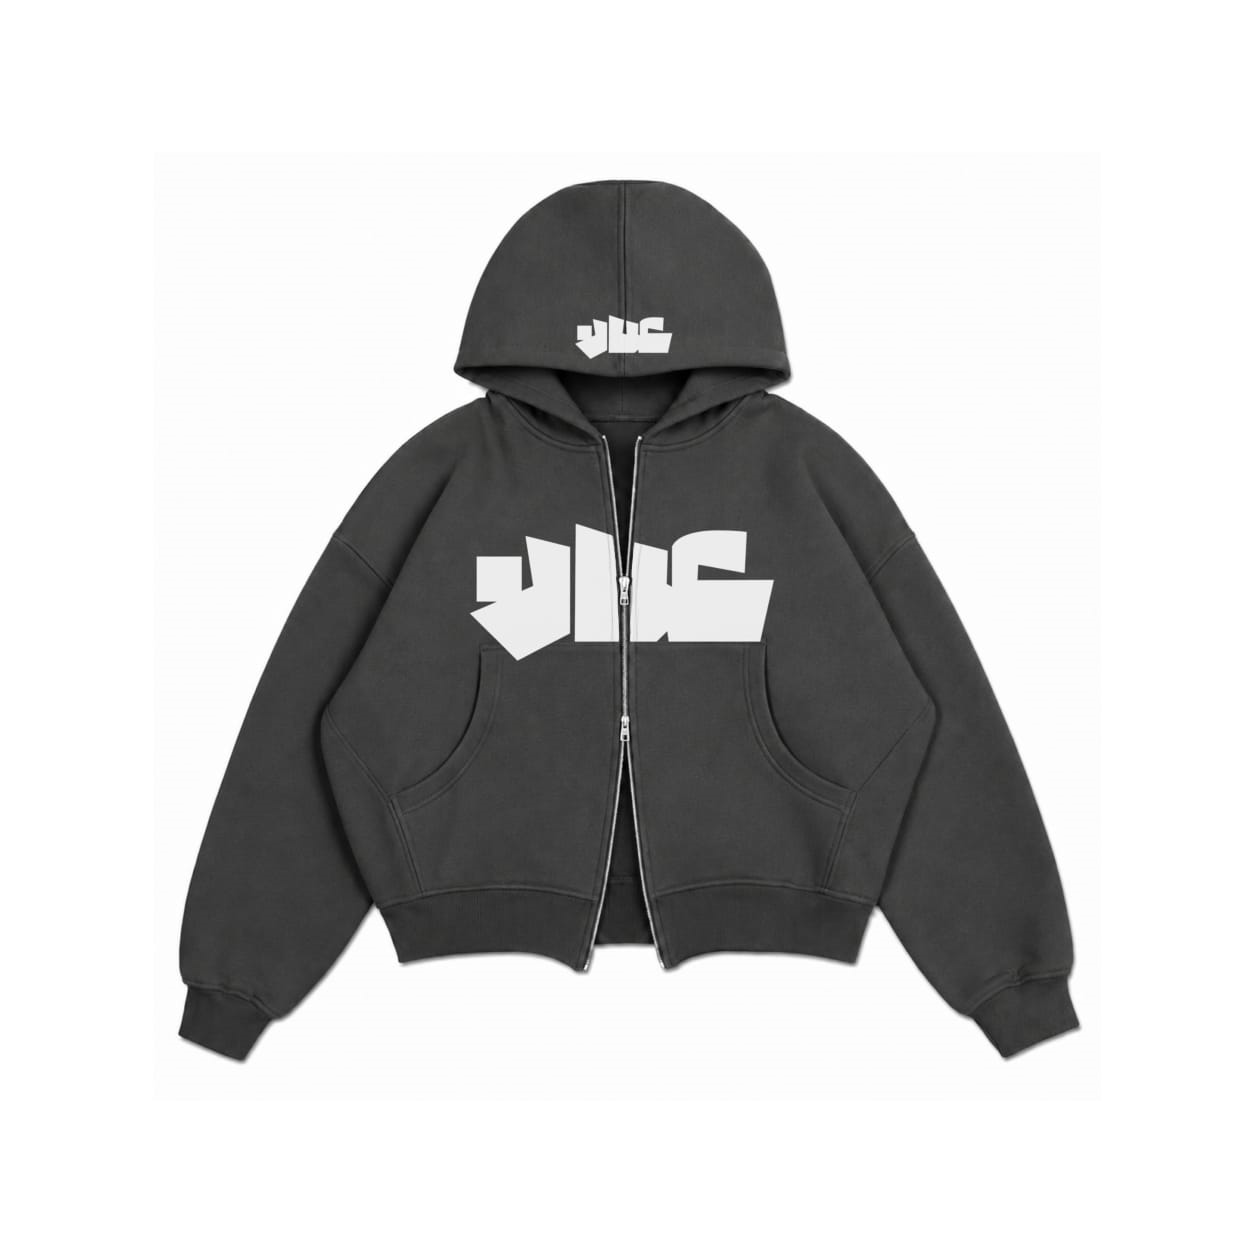
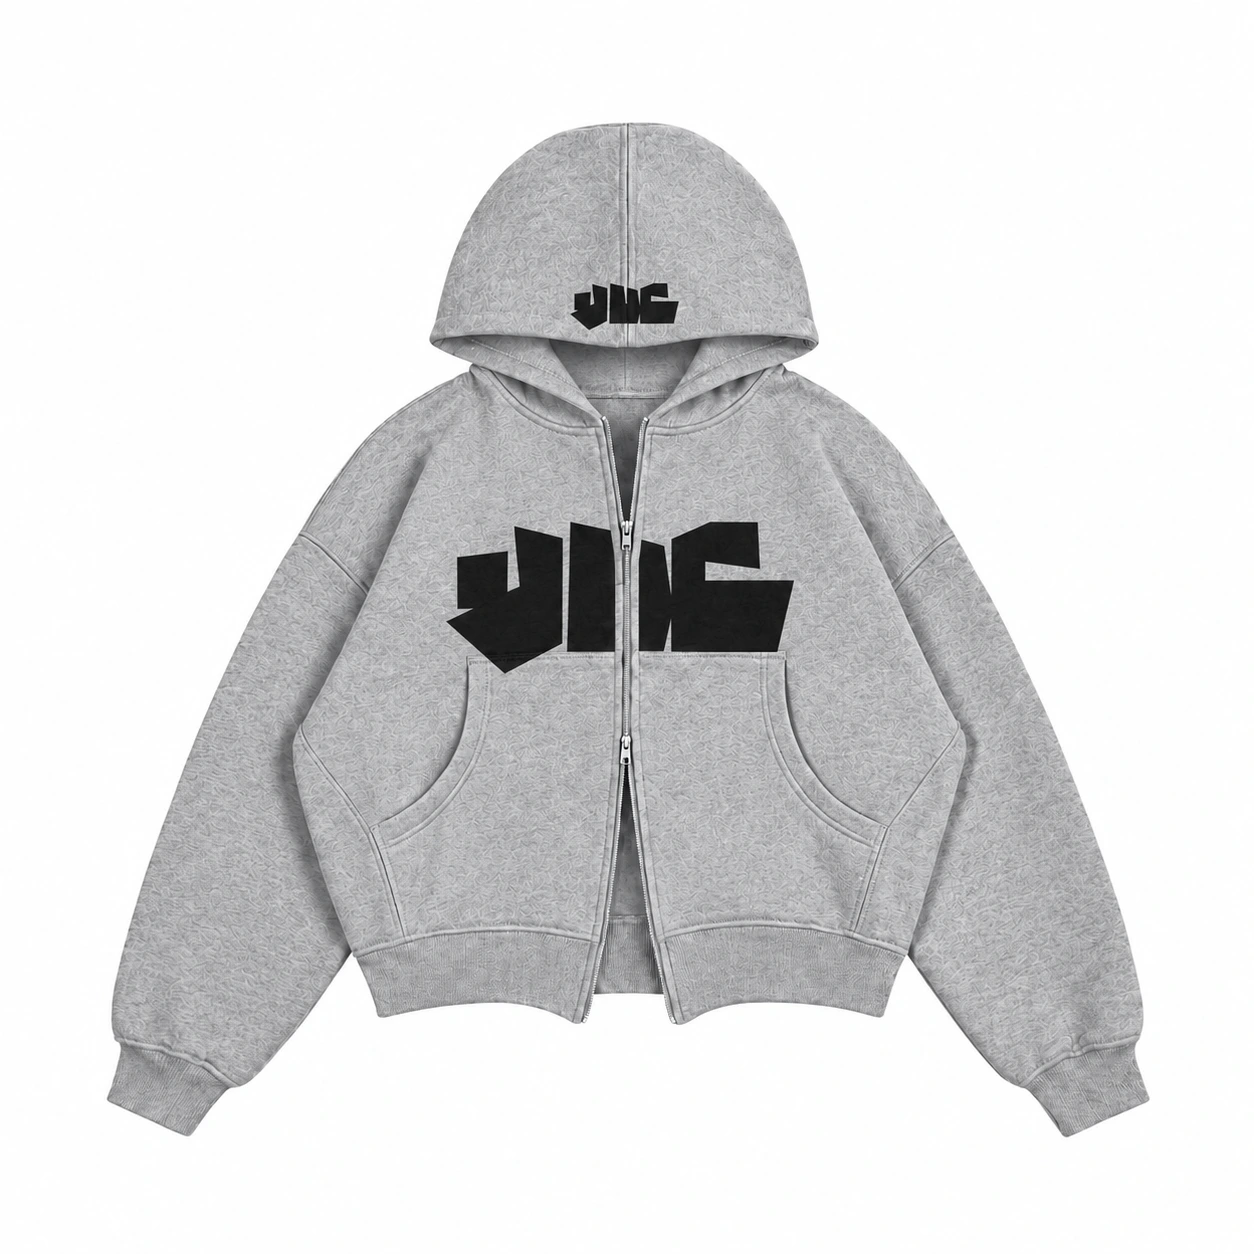
update catalog produk: ShortSleeve North Default, Gray hoodie, NRTHNL archive, ids 1-14 + bump sw cache v4.2.0

diff --git a/backend/routes/catalog.js b/backend/routes/catalog.js
@@ -11,25 +11,25 @@ const SIZE_EXTRA = { S: 0, M: 500, L: 1000, XL: 1500, XXL: 2000 };
 const NORTHLINE_CATALOG = [
   {
     id: 1,
-    name: "Northline - LongSleeve Boxy Style North Default  - 24s Cotton Combed Black Statemant",
+    name: "Northline - ShortSleeve Boxy Style North Default  - 24s Cotton Combed Black Statemant",
     priceLong: 127000,
     price: 127000,
     oldPrice: 250000,
     avgRating: 4.4,
     totalReviews: 7102,
     images: [
-      "https://nl.hostinesia.my.id/public/image/NorthlineArticles/NorthlineLongSleeveBoxyStyle_NorthDefault_BlackStatement.webp",
+      "https://nl.hostinesia.my.id/public/image/NorthlineArticles/NorthlineShortSleeveBoxyStyle_NorthDefault_BlackStatement.webp",
       "https://nl.hostinesia.my.id/public/image/SizeChart/SizeChartNorthlineLongsleeve.webp",
     ],
     colors: ["Black"],
     sizes: ["M", "L", "XL"],
     stock: 20,
     deskripsi:
-      "Northline - LongSleeve Boxy Style North Default  - 24s Cotton Combed Black Statemant.\n\n        Archive Article dari Northline dengan desain Black Statement yang menghadirkan karakter minimalis dan modern. \n        Menggunakan potongan boxy fit dengan siluet relaxed sehingga memberikan tampilan casual dan contemporary.\n\n        Detail Produk:\n\n        Brand: Northline\n        Model: LongSleeve Boxy T-Shirt\n        Article: Archive Article\n        Warna: Black\n        Fit: Boxy / Relaxed Fit\n        Lengan: Panjang\n        Material: Cotton\n        Cocok untuk penggunaan sehari-hari\n        Unisex\n\n        Catatan:\n        Mohon perhatikan panduan ukuran sebelum melakukan pemesanan. \n        Warna produk dapat terlihat sedikit berbeda tergantung pencahayaan dan layar perangkat.\n\n        #Northline #ArchiveArticle #BoxyTshirt #BlackStatement #BoxyFit #CasualWear",  
+      "Northline - ShortSleeve Boxy Style North Default  - 24s Cotton Combed Black Statemant.\n\n        Archive Article dari Northline dengan desain Black Statement yang menghadirkan karakter minimalis dan modern. \n        Menggunakan potongan boxy fit dengan siluet relaxed sehingga memberikan tampilan casual dan contemporary.\n\n        Detail Produk:\n\n        Brand: Northline\n        Model: ShortSleeve Boxy T-Shirt\n        Article: Archive Article\n        Warna: Black\n        Fit: Boxy / Relaxed Fit\n        Lengan: Pendek\n        Material: Cotton\n        Cocok untuk penggunaan sehari-hari\n        Unisex\n\n        Catatan:\n        Mohon perhatikan panduan ukuran sebelum melakukan pemesanan. \n        Warna produk dapat terlihat sedikit berbeda tergantung pencahayaan dan layar perangkat.\n\n        #Northline #ArchiveArticle #BoxyTshirt #BlackStatement #BoxyFit #CasualWear",  
   },
   {
     id: 2,
-    name: "Northline - Hoodie Boxy Zipper Style North Default  - 24s Cotton Combed Black Statemant",
+    name: "Northline - Hoodie Boxy Zipper Style North Default  - 24s Cotton Combed Gray Statemant",
     price: 217000,
     oldPrice: 250000,
     avgRating: 4.8,
@@ -38,11 +38,11 @@ const NORTHLINE_CATALOG = [
       "https://nl.hostinesia.my.id/public/image/NorthlineArticles/NorthlineHoodieBoxyStyle_nrt_BlackDefaultStatement.webp",
       "https://nl.hostinesia.my.id/public/image/SizeChart/SizeChartNorthlineHoodieBoxy.webp",
     ],
-    colors: ["Black"],
+    colors: ["Gray"],
     sizes: ["M", "L", "XL", "XXL"],
     stock: 20,
     deskripsi:
-      "Northline - Hoodie Boxy Zipper Style North Default  - 24s Cotton Combed Black Statemant.\n\n        Archive Article dari Northline dengan desain Black Statement yang menghadirkan karakter minimalis dan modern. \n        Menggunakan potongan boxy fit dengan siluet relaxed sehingga memberikan tampilan casual dan contemporary.\n\n        Detail Produk:\n\n        Brand: Northline\n        Model: Hoodie Boxy Zipper\n        Article: Archive Article\n        Warna: Black\n        Fit: Boxy / Relaxed Fit\n        Lengan: Panjang\n        Material: Cotton\n        Cocok untuk penggunaan sehari-hari\n        Unisex\n\n        Catatan:\n        Mohon perhatikan panduan ukuran sebelum melakukan pemesanan. \n        Warna produk dapat terlihat sedikit berbeda tergantung pencahayaan dan layar perangkat.\n\n        #Northline #ArchiveArticle #BoxyTshirt #BlackStatement #BoxyFit #CasualWear",  
+      "Northline - Hoodie Boxy Zipper Style North Default  - 24s Cotton Combed Gray Statemant.\n\n        Archive Article dari Northline dengan desain Black Statement yang menghadirkan karakter minimalis dan modern. \n        Menggunakan potongan boxy fit dengan siluet relaxed sehingga memberikan tampilan casual dan contemporary.\n\n        Detail Produk:\n\n        Brand: Northline\n        Model: Hoodie Boxy Zipper\n        Article: Archive Article\n        Warna: Gray\n        Fit: Boxy / Relaxed Fit\n        Lengan: Panjang\n        Material: Cotton\n        Cocok untuk penggunaan sehari-hari\n        Unisex\n\n        Catatan:\n        Mohon perhatikan panduan ukuran sebelum melakukan pemesanan. \n        Warna produk dapat terlihat sedikit berbeda tergantung pencahayaan dan layar perangkat.\n\n        #Northline #ArchiveArticle #BoxyTshirt #BlackStatement #BoxyFit #CasualWear",  
   },
   {
     id: 3,
@@ -102,7 +102,7 @@ const NORTHLINE_CATALOG = [
       "Northline - Sweatpants Loose Baggy Highwaist Man  - Falcee Gray Statemant.\n\n        Archive Article dari Northline dengan desain Gray Statement yang menghadirkan karakter minimalis dan modern. \n        Menggunakan potongan boxy fit dengan siluet relaxed sehingga memberikan tampilan casual dan contemporary.\n\n        Detail Produk:\n\n        Brand: Northline\n        Model: Sweatpants\n        Article: Archive Article\n        Warna: Gray\n        Tipe: High waist\n        Panjang Celana: Panjang\n        Material: Falcee\n        Cocok untuk penggunaan sehari-hari\n        Unisex\n\n        Catatan:\n        Mohon perhatikan panduan ukuran sebelum melakukan pemesanan. \n        Warna produk dapat terlihat sedikit berbeda tergantung pencahayaan dan layar perangkat.\n\n        #Northline #ArchiveArticle #BoxyTshirt #BlackStatement #BoxyFit #CasualWear",  
   },
   {
-    id: 15,
+    id: 6,
     name: "Northline - Sweatpants Loose Baggy Highwaist Womans  - Falcee Gray Statemant",
     price: 119000,
     oldPrice: 250000,
@@ -119,7 +119,7 @@ const NORTHLINE_CATALOG = [
       "Northline - Sweatpants Loose Baggy Highwaist Womans  - Falcee Gray Statemant.\n\n        Archive Article dari Northline dengan desain Gray Statement yang menghadirkan karakter minimalis dan modern. \n        Menggunakan potongan boxy fit dengan siluet relaxed sehingga memberikan tampilan casual dan contemporary.\n\n        Detail Produk:\n\n        Brand: Northline\n        Model: Sweatpants\n        Article: Archive Article\n        Warna: Gray\n        Tipe: High waist\n        Panjang Celana: Panjang\n        Material: Falcee\n        Cocok untuk penggunaan sehari-hari\n        Unisex\n\n        Catatan:\n        Mohon perhatikan panduan ukuran sebelum melakukan pemesanan. \n        Warna produk dapat terlihat sedikit berbeda tergantung pencahayaan dan layar perangkat.\n\n        #Northline #ArchiveArticle #BoxyTshirt #BlackStatement #BoxyFit #CasualWear",  
   },
   {
-    id: 6,
+    id: 7,
     name: "Northline - Hoodie Zipper Crop North Default Womans  - Falcee Gray Statemant",
     price: 202000,
     oldPrice: 250000,
@@ -136,7 +136,7 @@ const NORTHLINE_CATALOG = [
       "Northline - Hoodie Zipper Crop North Default Womans  - Falcee Gray Statemant.\n\n        Archive Article dari Northline dengan desain Gray Statement yang menghadirkan karakter minimalis dan modern. \n        Menggunakan potongan boxy fit dengan siluet relaxed sehingga memberikan tampilan casual dan contemporary.\n\n        Detail Produk:\n\n        Brand: Northline\n        Model: Hoodie\n        Article: Archive Article\n        Warna: Gray\n        Tipe: Zipper Crop\n        Lengan: Panjang\n        Material: Falcee\n        Cocok untuk penggunaan sehari-hari\n        Unisex\n\n        Catatan:\n        Mohon perhatikan panduan ukuran sebelum melakukan pemesanan. \n        Warna produk dapat terlihat sedikit berbeda tergantung pencahayaan dan layar perangkat.\n\n        #Northline #ArchiveArticle #BoxyTshirt #BlackStatement #BoxyFit #CasualWear",  
   },
   {
-    id: 7,
+    id: 8,
     name: "Northline - ShortSleeve Boxy Tshirt American Style  - 24s Cotton Combed Black Statemant",
     price: 113000,
     oldPrice: 250000,
@@ -153,7 +153,7 @@ const NORTHLINE_CATALOG = [
       "Northline - ShortSleeve Boxy Tshirt American Style  - 24s Cotton Combed Black Statemant.\n\n        Archive Article dari Northline dengan desain Black Statement yang menghadirkan karakter minimalis dan modern. \n        Menggunakan potongan boxy fit dengan siluet relaxed sehingga memberikan tampilan casual dan contemporary.\n\n        Detail Produk:\n\n        Brand: Northline\n        Model: ShortSleeve Boxy T-Shirt\n        Article: Archive Article\n        Warna: Black\n        Fit: Boxy / Relaxed Fit\n        Lengan: Pendek\n        Material: Cotton\n        Cocok untuk penggunaan sehari-hari\n        Unisex\n\n        Catatan:\n        Mohon perhatikan panduan ukuran sebelum melakukan pemesanan. \n        Warna produk dapat terlihat sedikit berbeda tergantung pencahayaan dan layar perangkat.\n\n        #Northline #ArchiveArticle #BoxyTshirt #BlackStatement #BoxyFit #CasualWear",  
   },
   {
-    id: 8,
+    id: 9,
     name: "Northline - ShortSleeve Boxy Tshirt Northline Indonesia & Northline  - 24s Cotton Combed Black Statemant",
     price: 113000,
     oldPrice: 250000,
@@ -172,9 +172,9 @@ const NORTHLINE_CATALOG = [
       "Northline - ShortSleeve Boxy Tshirt Northline Indonesia & Northline - 24s Cotton Combed Black Statemant.\n\n        Archive Article dari Northline dengan desain Black Statement yang menghadirkan karakter minimalis dan modern. \n        Menggunakan potongan boxy fit dengan siluet relaxed sehingga memberikan tampilan casual dan contemporary.\n\n        Detail Produk:\n\n        Brand: Northline\n        Model: ShortSleeve Boxy T-Shirt\n        Article: Archive Article\n        Warna: Black\n        Fit: Boxy / Relaxed Fit\n        Lengan: Pendek\n        Material: Cotton\n        Cocok untuk penggunaan sehari-hari\n        Unisex\n\n        Catatan:\n        Mohon perhatikan panduan ukuran sebelum melakukan pemesanan. \n        Warna produk dapat terlihat sedikit berbeda tergantung pencahayaan dan layar perangkat.\n\n        #Northline #ArchiveArticle #BoxyTshirt #BlackStatement #BoxyFit #CasualWear",  
   },
   {
-    id: 9,
+    id: 10,
     name: "Northline - ShortSleeve Kids Boxy Tshirt Northline Indonesia & Northline  - 24s Cotton Combed Black Statemant",
-    price: 113000,
+    price: 102000,
     oldPrice: 250000,
     avgRating: 5,
     totalReviews: 10800,
@@ -191,7 +191,7 @@ const NORTHLINE_CATALOG = [
       "Northline - ShortSleeve Kids Boxy Tshirt Northline Indonesia & Northline - 24s Cotton Combed Black Statemant.\n\n        Archive Article dari Northline dengan desain Black Statement yang menghadirkan karakter minimalis dan modern. \n        Menggunakan potongan boxy fit dengan siluet relaxed sehingga memberikan tampilan casual dan contemporary.\n\n        Detail Produk:\n\n        Brand: Northline\n        Model: ShortSleeve Kids Boxy T-Shirt\n        Article: Archive Article\n        Warna: Black\n        Fit: Boxy / Relaxed Fit\n        Lengan: Pendek\n        Material: Cotton\n        Cocok untuk penggunaan sehari-hari\n        Unisex\n\n        Catatan:\n        Mohon perhatikan panduan ukuran sebelum melakukan pemesanan. \n        Warna produk dapat terlihat sedikit berbeda tergantung pencahayaan dan layar perangkat.\n\n        #Northline #ArchiveArticle #BoxyTshirt #BlackStatement #BoxyFit #CasualWear",  
   },
   {
-    id: 10,
+    id: 11,
     name: "Northline - ShortSleeve Boxy Tshirt NL  - 24s Cotton Combed Black Statemant",
     price: 113000,
     oldPrice: 250000,
@@ -210,7 +210,7 @@ const NORTHLINE_CATALOG = [
       "Northline - ShortSleeve Boxy Tshirt NL  - 24s Cotton Combed Black Statemant.\n\n        Archive Article dari Northline dengan desain Black Statement yang menghadirkan karakter minimalis dan modern. \n        Menggunakan potongan boxy fit dengan siluet relaxed sehingga memberikan tampilan casual dan contemporary.\n\n        Detail Produk:\n\n        Brand: Northline\n        Model: ShortSleeve Boxy T-Shirt\n        Article: Archive Article\n        Warna: White\n        Fit: Boxy / Relaxed Fit\n        Lengan: Pendek\n        Material: Cotton\n        Cocok untuk penggunaan sehari-hari\n        Unisex\n\n        Catatan:\n        Mohon perhatikan panduan ukuran sebelum melakukan pemesanan. \n        Warna produk dapat terlihat sedikit berbeda tergantung pencahayaan dan layar perangkat.\n\n        #Northline #ArchiveArticle #BoxyTshirt #BlackStatement #BoxyFit #CasualWear",  
   },
   {
-    id: 11,
+    id: 12,
     name: "Northline - ShortSleeve Boxy Tshirt NRL  - 24s Cotton Combed Black Statemant",
     price: 113000,
     oldPrice: 250000,
@@ -229,39 +229,38 @@ const NORTHLINE_CATALOG = [
       "Northline - ShortSleeve Boxy Tshirt NRL  - 24s Cotton Combed Black Statemant.\n\n        Archive Article dari Northline dengan desain Black Statement yang menghadirkan karakter minimalis dan modern. \n        Menggunakan potongan boxy fit dengan siluet relaxed sehingga memberikan tampilan casual dan contemporary.\n\n        Detail Produk:\n\n        Brand: Northline\n        Model: ShortSleeve Boxy T-Shirt\n        Article: Archive Article\n        Warna: White\n        Fit: Boxy / Relaxed Fit\n        Lengan: Pendek\n        Material: Cotton\n        Cocok untuk penggunaan sehari-hari\n        Unisex\n\n        Catatan:\n        Mohon perhatikan panduan ukuran sebelum melakukan pemesanan. \n        Warna produk dapat terlihat sedikit berbeda tergantung pencahayaan dan layar perangkat.\n\n        #Northline #ArchiveArticle #BoxyTshirt #BlackStatement #BoxyFit #CasualWear",  
   },
   {
-    id: 12,
-    name: "Northline - ShortSleeve Boxy Tshirt This is the northwest  - 24s Cotton Combed Black Statemant",
+    id: 13,
+    name: "Northline - ShortSleeve Boxy Tshirt NRTHNL Archive Article  - 24s Cotton Combed Black Statemant",
     price: 113000,
     oldPrice: 250000,
     avgRating: 5,
     totalReviews: 10800,
     images: [
+      "https://nl.hostinesia.my.id/public/image/NorthlineArticles/NorthlineShortSleeveBoxyStyle_archive_WhiteStatement.webp",
+      "https://nl.hostinesia.my.id/public/image/SizeChart/SizeChartNorthlineShortsleeve.webp",
+    ],
+    colors: ["Black"],
+    sizes: ["M", "L", "XL"],
+    stock: 20,
+    deskripsi:
+      "Northline - ShortSleeve Boxy Tshirt NRTHNL Archive Article  - 24s Cotton Combed Black Statemant.\n\n        Archive Article dari Northline dengan desain Black Statement yang menghadirkan karakter minimalis dan modern. \n        Menggunakan potongan boxy fit dengan siluet relaxed sehingga memberikan tampilan casual dan contemporary.\n\n        Detail Produk:\n\n        Brand: Northline\n        Model: ShortSleeve Boxy T-Shirt\n        Article: Archive Article\n        Warna: Black\n        Fit: Boxy / Relaxed Fit\n        Lengan: Pendek\n        Material: Cotton\n        Cocok untuk penggunaan sehari-hari\n        Unisex\n\n        Catatan:\n        Mohon perhatikan panduan ukuran sebelum melakukan pemesanan. \n        Warna produk dapat terlihat sedikit berbeda tergantung pencahayaan dan layar perangkat.\n\n        #Northline #ArchiveArticle #BoxyTshirt #BlackStatement #BoxyFit #CasualWear",  
+  },
+  {
+    id: 14,
+    name: "Northline - ShortSleeve Boxy Tshirt This is the northwest.  - 24s Cotton Combed Black Statemant",
+    price: 113000,
+    oldPrice: 250000,
+    avgRating: 4.9,
+    totalReviews: 20400,
+    images: [
       "https://nl.hostinesia.my.id/public/image/NorthlineArticles/NorthlineShortSleeveBoxyStyle_northwest_WhiteStatement.webp",
       "https://nl.hostinesia.my.id/public/image/SizeChart/SizeChartNorthlineShortsleeve.webp",
     ],
-    colors: ["White"],
+    colors: ["Black"],
     sizes: ["M", "L", "XL"],
     stock: 20,
     deskripsi:
-      "Northline - ShortSleeve Boxy Tshirt This is the northwest  - 24s Cotton Combed Black Statemant.\n\n        Archive Article dari Northline dengan desain Black Statement yang menghadirkan karakter minimalis dan modern. \n        Menggunakan potongan boxy fit dengan siluet relaxed sehingga memberikan tampilan casual dan contemporary.\n\n        Detail Produk:\n\n        Brand: Northline\n        Model: ShortSleeve Boxy T-Shirt\n        Article: Archive Article\n        Warna: White\n        Fit: Boxy / Relaxed Fit\n        Lengan: Pendek\n        Material: Cotton\n        Cocok untuk penggunaan sehari-hari\n        Unisex\n\n        Catatan:\n        Mohon perhatikan panduan ukuran sebelum melakukan pemesanan. \n        Warna produk dapat terlihat sedikit berbeda tergantung pencahayaan dan layar perangkat.\n\n        #Northline #ArchiveArticle #BoxyTshirt #BlackStatement #BoxyFit #CasualWear",  
-  },
-  {
-    id: 13,
-    name: "Northline - LongSleeve Boxy Tshirt This is the northwest  - 24s Cotton Combed Black Statemant",
-    priceLong: 127000,
-    price: 127000,
-    oldPrice: 250000,
-    avgRating: 4.5,
-    totalReviews: 7500,
-    images: [
-      "https://nl.hostinesia.my.id/public/image/NorthlineArticles/NorthlineLongSleeveBoxyStyle_northwest_WhiteStatement.webp",
-      "https://nl.hostinesia.my.id/public/image/SizeChart/SizeChartNorthlineLongsleeve.webp",
-    ],
-    colors: ["White"],
-    sizes: ["M", "L", "XL"],
-    stock: 20,
-    deskripsi:
-      "Northline - LongSleeve Boxy Tshirt This is the northwest  - 24s Cotton Combed Black Statemant.\n\n        Archive Article dari Northline dengan desain Black Statement yang menghadirkan karakter minimalis dan modern. \n        Menggunakan potongan boxy fit dengan siluet relaxed sehingga memberikan tampilan casual dan contemporary.\n\n        Detail Produk:\n\n        Brand: Northline\n        Model: longSleeve Boxy T-Shirt\n        Article: Archive Article\n        Warna: White\n        Fit: Boxy / Relaxed Fit\n        Lengan: Panjang\n        Material: Cotton\n        Cocok untuk penggunaan sehari-hari\n        Unisex\n\n        Catatan:\n        Mohon perhatikan panduan ukuran sebelum melakukan pemesanan. \n        Warna produk dapat terlihat sedikit berbeda tergantung pencahayaan dan layar perangkat.\n\n        #Northline #ArchiveArticle #BoxyTshirt #BlackStatement #BoxyFit #CasualWear",  
+      "Northline - ShortSleeve Boxy Tshirt This is the northwest.  - 24s Cotton Combed Black Statemant.\n\n        Archive Article dari Northline dengan desain Black Statement yang menghadirkan karakter minimalis dan modern. \n        Menggunakan potongan boxy fit dengan siluet relaxed sehingga memberikan tampilan casual dan contemporary.\n\n        Detail Produk:\n\n        Brand: Northline\n        Model: ShortSleeve Boxy T-Shirt\n        Article: Archive Article\n        Warna: Black\n        Fit: Boxy / Relaxed Fit\n        Lengan: Pendek\n        Material: Cotton\n        Cocok untuk penggunaan sehari-hari\n        Unisex\n\n        Catatan:\n        Mohon perhatikan panduan ukuran sebelum melakukan pemesanan. \n        Warna produk dapat terlihat sedikit berbeda tergantung pencahayaan dan layar perangkat.\n\n        #Northline #ArchiveArticle #BoxyTshirt #BlackStatement #BoxyFit #CasualWear",  
   },
 ];
 

diff --git a/frontend/sw.js b/frontend/sw.js
@@ -1,4 +1,4 @@
-const CACHE_NAME = "northline-v4.1.0";
+const CACHE_NAME = "northline-v4.2.0";
 
 self.addEventListener("install", (event) => {
     self.skipWaiting();
